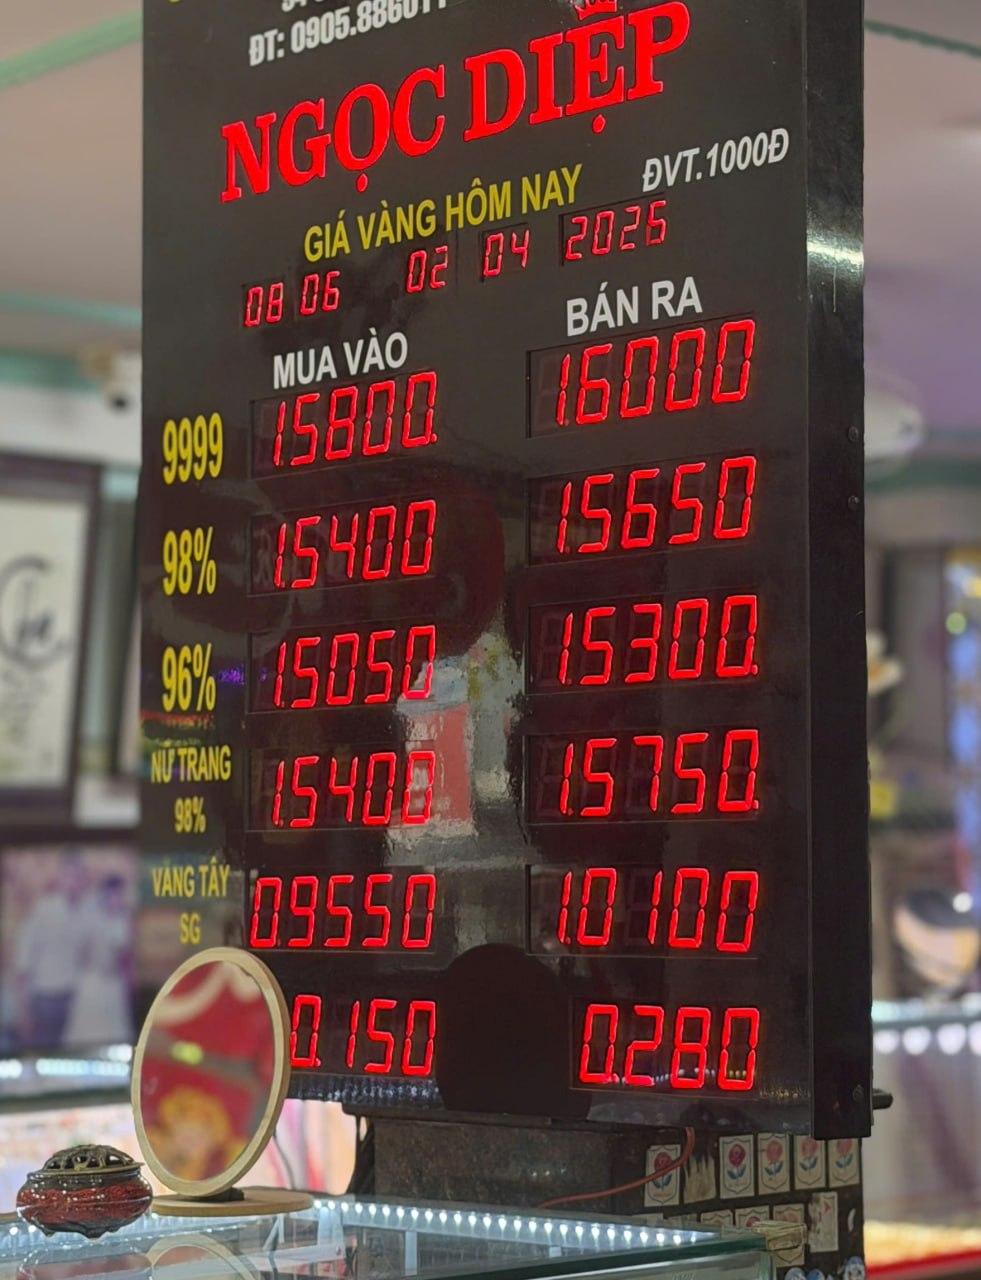
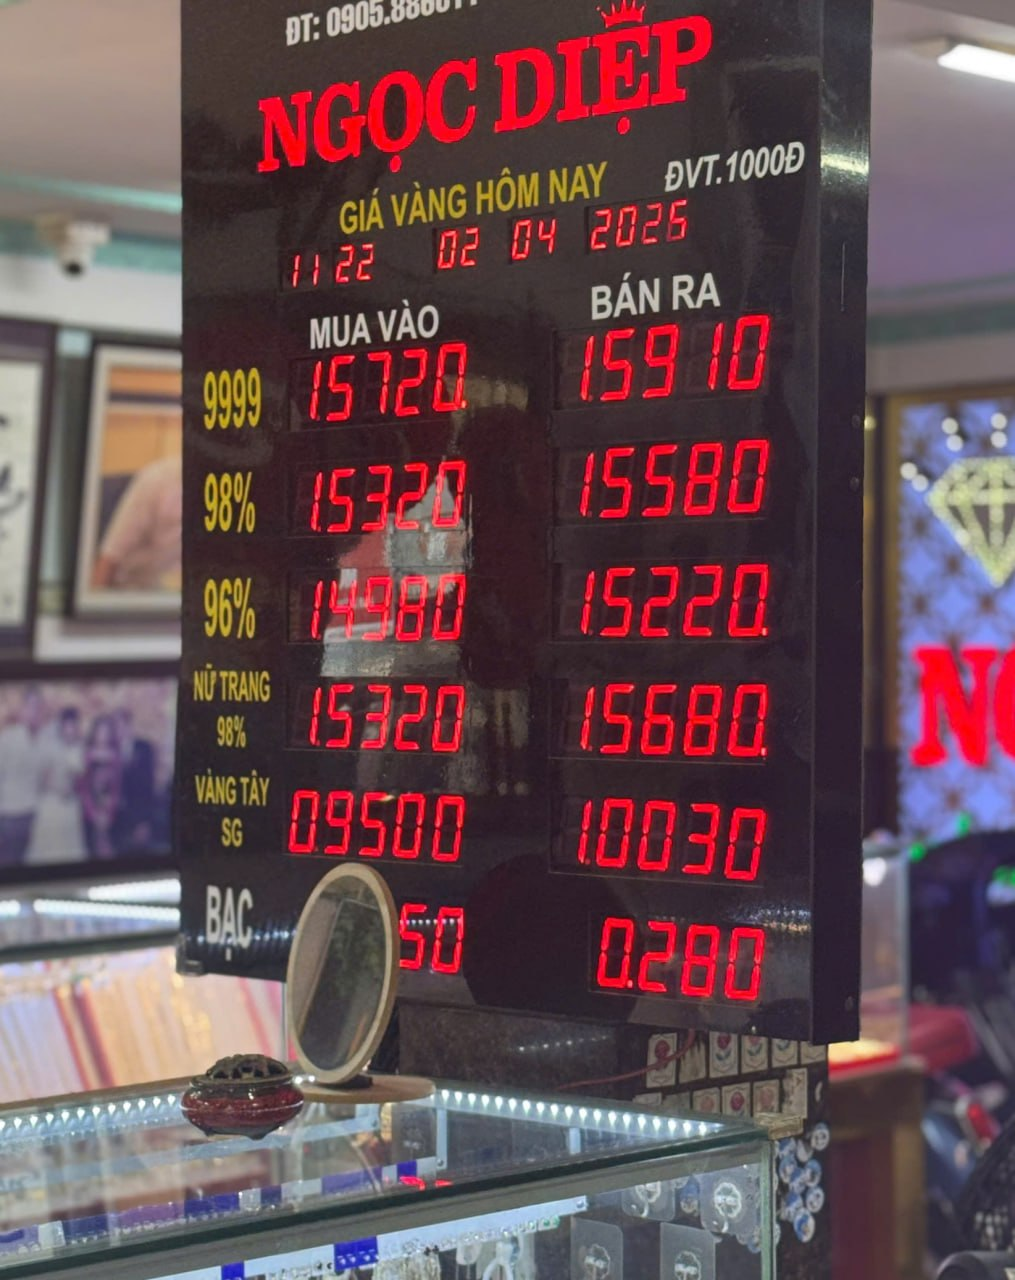
Update ngoc-diep price image (11:24)

diff --git a/app/data/goldShops.ts b/app/data/goldShops.ts
@@ -12,7 +12,7 @@ export const GOLD_SHOPS: GoldShop[] = [
     name: "Ngọc Diệp",
     location: "Đà Nẵng",
     image: "images/ngoc-diep.jpg",
-    updatedAt: "08:16",
+    updatedAt: "11:24",
   },
   {
     id: "ngoc-thinh",
